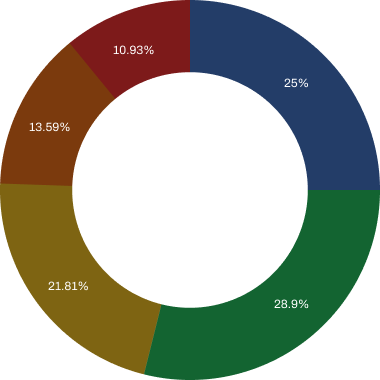
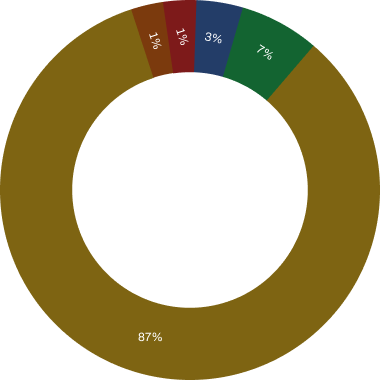
Updated and added new designs texts for tokenomics

diff --git a/index.html b/index.html
@@ -185,75 +185,47 @@
             <h2 class="headline">Tokenomics</h2>
             <div class="content">
                 <div class="token-details">
-                    <div class="row dashed-border m-s-e-0">
-                        <div class="col-1">
-                            <div class="item"><span class="red-circle"></span></div>
-                        </div>
-                        <div class="col-4">
+                    <div class="row dashed-border m-s-e-0 my-2">
+                        <div class="col-12">
                             <div class="item price-box">
-                                <h5 class="title">Lorem</h5>
-                                <p class="value">$27.4 Billions</p>
-                            </div>
-                        </div>
-                        <div class="col-3">
-                            <div class="item date-box">
-                                <h5 class="title">Lorem Ipsum</h5>
-                                <p class="value">13 Mar 2023</p>
-                            </div>
-                        </div>
-                        <div class="col-4">
-                            <div class="item percentage-box">
-                                <h5 class="title">$08,256.04</h5>
-                                <p class="value green-percentage">+$51.19 (+5.64%)</p>
+                                <span class="red-circle"></span>
+                                <h5 class="title">2% Marketing Tokens</h5>
                             </div>
                         </div>
                     </div>
-                    <div class="row dashed-border m-s-e-0">
-                        <div class="col-1">
-                            <div class="item"><span class="red-circle"></span></div>
-                        </div>
-                        <div class="col-4">
+                    <div class="row dashed-border m-s-e-0 my-2">
+                        <div class="col-12">
                             <div class="item price-box">
-                                <h5 class="title">Lorem</h5>
-                                <p class="value">$27.4 Billions</p>
-                            </div>
-                        </div>
-                        <div class="col-3">
-                            <div class="item date-box">
-                                <h5 class="title">Lorem Ipsum</h5>
-                                <p class="value">13 Mar 2023</p>
-                            </div>
-                        </div>
-                        <div class="col-4">
-                            <div class="item percentage-box">
-                                <h5 class="title">$08,256.04</h5>
-                                <p class="value green-percentage">+$51.19 (+5.64%)</p>
+                                <span class="mustard-circle"></span>
+                                <h5 class="title">87% Tokens for Presale</h5>
                             </div>
                         </div>
                     </div>
-                    <div class="row dashed-border m-s-e-0">
-                        <div class="col-1">
-                            <div class="item"><span class="red-circle"></span></div>
-                        </div>
-                        <div class="col-4">
+                    <div class="row dashed-border m-s-e-0 my-2">
+                        <div class="col-12">
                             <div class="item price-box">
-                                <h5 class="title">Lorem</h5>
-                                <p class="value">$27.4 Billions</p>
-                            </div>
-                        </div>
-                        <div class="col-3">
-                            <div class="item date-box">
-                                <h5 class="title">Lorem Ipsum</h5>
-                                <p class="value">13 Mar 2023</p>
-                            </div>
-                        </div>
-                        <div class="col-4">
-                            <div class="item percentage-box">
-                                <h5 class="title">$08,256.04</h5>
-                                <p class="value green-percentage">+$51.19 (+5.64%)</p>
+                                <span class="pixie-powder-circle"></span>
+                                <h5 class="title">1% Community Rewards</h5>
                             </div>
                         </div>
                     </div>
+                    <div class="row dashed-border m-s-e-0 my-2">
+                        <div class="col-12">
+                            <div class="item price-box">
+                                <span class="cataline-blue-circle"></span>
+                                <h5 class="title">13% Advisors, Developers and team tokens</h5>
+                            </div>
+                        </div>
+                    </div>
+                    <div class="row m-s-e-0 my-2">
+                        <div class="col-12">
+                            <div class="item price-box">
+                                <span class="midnight-green-circle"></span>
+                                <h5 class="title">7% Private presale investors who supported the development of the products</h5>
+                            </div>
+                        </div>
+                    </div>
+                    
                 </div>
                 <div class="chart">
                     <img src="./static/images/token-pie-chart.png" alt="tokenomics"/>

diff --git a/static/css/main.css b/static/css/main.css
@@ -689,9 +689,10 @@ ul{
 }
 .tokenomics-box .content .token-details .item{
     display: flex;
-    flex-direction: column;
-    align-items: flex-start;
-    justify-content: center;
+    flex-direction: row;
+    align-items: center;
+    justify-content: flex-start;
+    gap: 15px;
     height: 100%;
     padding: 10px 0px;
 }
@@ -729,6 +730,35 @@ ul{
     border: 0.5px solid #93C5FD;
     border-radius: 50%;
 }
+.mustard-circle{
+    width: 18px;
+    height: 18px;
+    background: #7E6412;
+    border: 0.5px solid #93C5FD;
+    border-radius: 50%;
+}
+.pixie-powder-circle{
+    width: 18px;
+    height: 18px;
+    background: #7B3A0D;
+    border: 0.5px solid #93C5FD;
+    border-radius: 50%;
+}
+.cataline-blue-circle{
+    width: 18px;
+    height: 18px;
+    background: #233D68;
+    border: 0.5px solid #93C5FD;
+    border-radius: 50%;
+}
+.midnight-green-circle{
+    width: 18px;
+    height: 18px;
+    background: #136431;
+    border: 0.5px solid #93C5FD;
+    border-radius: 50%;
+}
+
 @media (max-width:769px) {
     .our-tokenomics-section{
         margin-top: 80px;
